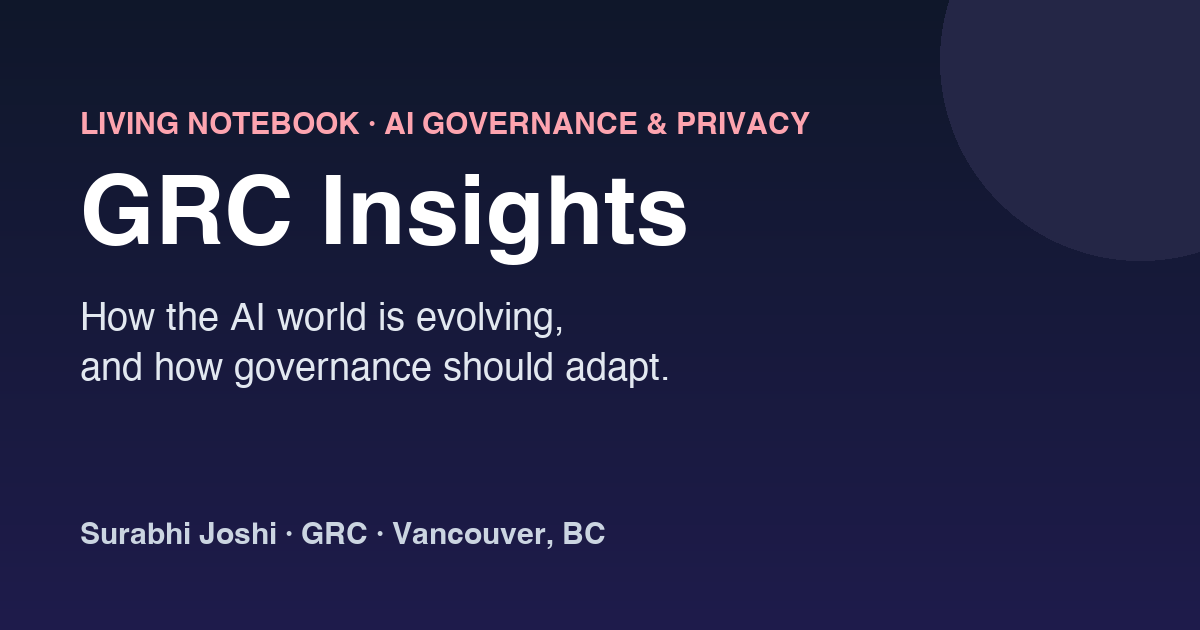
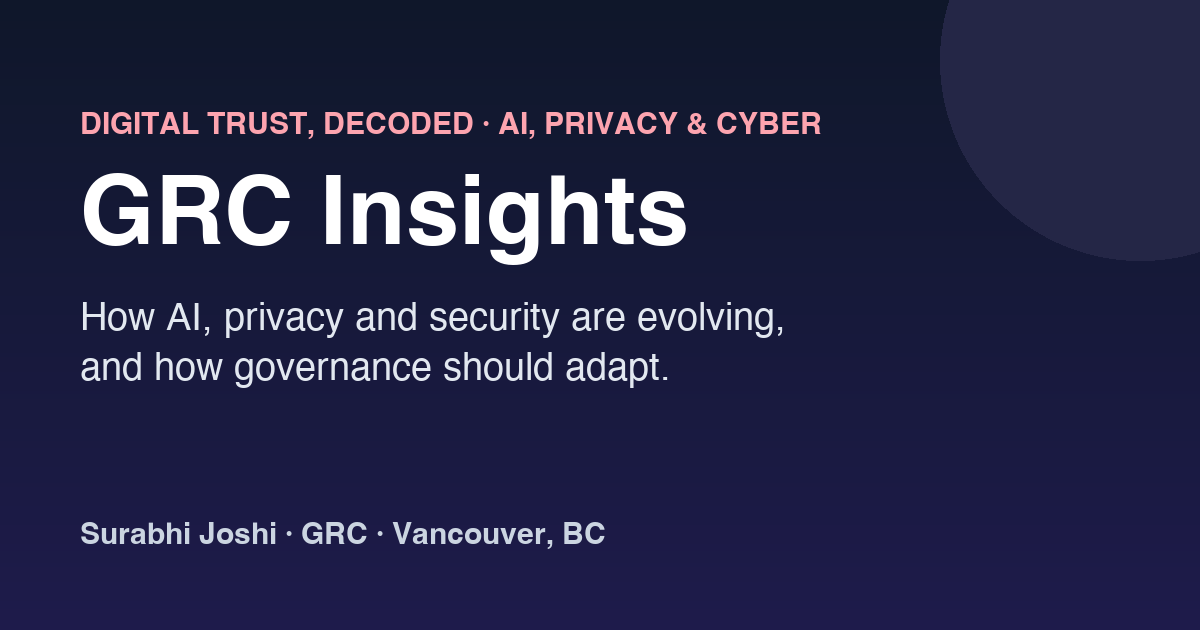
feat: tagline 'Digital trust, decoded'; site copy covers AI, privacy and cybersecurity

Changed region(s): [[0.1233, 0.4825, 0.6475, 0.5429], [0.0617, 0.181, 0.7092, 0.2111]]

diff --git a/about.html b/about.html
@@ -2,13 +2,13 @@
 layout: default
 title: About Surabhi Joshi
 permalink: /about/
-description: Surabhi Joshi is a governance, risk and compliance practitioner in Vancouver, BC, working on AI governance, privacy and security compliance programmes.
+description: Surabhi Joshi is a governance, risk and compliance practitioner in Vancouver, BC, working on AI governance, privacy and cybersecurity.
 ---
 <section class="hero hero-compact">
   <div class="hero-inner">
     <div class="hero-tag">About</div>
     <h1>Surabhi <span>Joshi</span></h1>
-    <p class="hero-intro">Governance, risk and compliance practitioner in Vancouver, BC. I write about how AI is changing risk, privacy and compliance, and how governance needs to keep up.</p>
+    <p class="hero-intro">Governance, risk and compliance practitioner in Vancouver, BC. I write about how AI, privacy and security are changing risk and compliance, and how governance needs to keep up.</p>
   </div>
 </section>
 
@@ -31,7 +31,7 @@ description: Surabhi Joshi is a governance, risk and compliance practitioner in 
 
   <p class="section-label">What you'll find here</p>
   <div class="prose">
-    <p>Field notes on the shifts that matter to GRC teams, each with my take and the actions I would take, plus the <a href="{{ '/radar/' | relative_url }}">Regulation Radar</a>, a living tracker of the privacy and AI laws I'm watching. Start with the <a href="{{ '/' | relative_url }}#archive">latest issues</a>.</p>
+    <p>Field notes on the shifts that matter to GRC teams, each with my take and the actions I would take, plus the <a href="{{ '/radar/' | relative_url }}">Regulation Radar</a>, a living tracker of the AI, privacy and cybersecurity laws and standards I'm watching. Start with the <a href="{{ '/' | relative_url }}#archive">latest issues</a>.</p>
   </div>
 
   <p><a class="li-link" href="{{ site.author.url }}" target="_blank" rel="noopener">Connect on LinkedIn</a></p>

diff --git a/index.html b/index.html
@@ -1,16 +1,16 @@
 ---
 layout: default
 title: GRC Insights
-description: A GRC practitioner's living notebook on how AI is evolving and how governance should adapt, covering privacy law, AI regulation and sector impact.
+description: "Digital trust, decoded: a GRC practitioner's field notes on AI governance, privacy and cybersecurity, and how governance should adapt."
 ---
 {% assign issues = site.issues | sort: 'date' | reverse %}
 {% assign latest = issues | first %}
 {% assign founding = site.issues | where: 'issue', 0 | first %}
 <section class="hero">
   <div class="hero-inner">
-    <div class="hero-tag">Living notebook · AI governance &amp; privacy</div>
+    <div class="hero-tag">Digital trust, decoded · AI, privacy &amp; cyber governance</div>
     <h1>GRC <span>Insights</span></h1>
-    <p class="hero-intro">How the AI world is evolving, and how governance should adapt. Privacy law, AI regulation and what they mean for tech, SaaS, cloud, hardware, banking and retail, from a practitioner who has to make it work.</p>
+    <p class="hero-intro">How AI, privacy and security are evolving, and how governance should adapt. AI regulation, privacy law, cybersecurity rules and security certifications, and what they mean for tech, SaaS, cloud, hardware, banking and retail, from a practitioner who has to make it work.</p>
     <div class="author-row">
       <div class="author-avatar">SJ</div>
       <div class="author-info">

diff --git a/radar.html b/radar.html
@@ -2,14 +2,14 @@
 layout: default
 title: Regulation Radar
 permalink: /radar/
-description: A living tracker of privacy and AI laws, regulations and standards across Canada, the US, EU/UK, APAC and India, with status, key dates and sector impact.
+description: A living tracker of AI, privacy and cybersecurity laws, regulations and standards across Canada, the US, EU/UK, APAC and India, with status, key dates and sector impact.
 ---
 {% assign reviewed = site.data.tracker | map: 'last_reviewed' | sort | last %}
 <section class="hero hero-compact">
   <div class="hero-inner">
     <div class="hero-tag">Living tracker{% if reviewed %} · Last reviewed {{ reviewed }}{% endif %}</div>
     <h1>Regulation <span>Radar</span></h1>
-    <p class="hero-intro">Every privacy and AI law, rule and standard I'm watching, with status, key dates and who it hits. Each entry links to its primary source.</p>
+    <p class="hero-intro">Every AI, privacy and cybersecurity law, rule and standard I'm watching, with status, key dates and who it hits. Each entry links to its primary source.</p>
   </div>
 </section>
 

diff --git a/scripts/make_og_card.py b/scripts/make_og_card.py
@@ -25,9 +25,9 @@ def main(out: Path):
     tag = ImageFont.truetype(FONT, 30, index=1)
     title = ImageFont.truetype(FONT, 96, index=1)
     body = ImageFont.truetype(FONT, 38)
-    draw.text((80, 110), "LIVING NOTEBOOK · AI GOVERNANCE & PRIVACY", font=tag, fill=(253, 164, 175))
+    draw.text((80, 110), "DIGITAL TRUST, DECODED · AI, PRIVACY & CYBER", font=tag, fill=(253, 164, 175))
     draw.text((80, 170), "GRC Insights", font=title, fill=(255, 255, 255))
-    draw.text((80, 300), "How the AI world is evolving,", font=body, fill=(226, 232, 240))
+    draw.text((80, 300), "How AI, privacy and security are evolving,", font=body, fill=(226, 232, 240))
     draw.text((80, 350), "and how governance should adapt.", font=body, fill=(226, 232, 240))
     draw.text((80, 520), "Surabhi Joshi · GRC · Vancouver, BC", font=tag, fill=(203, 213, 225))
     out.parent.mkdir(parents=True, exist_ok=True)
